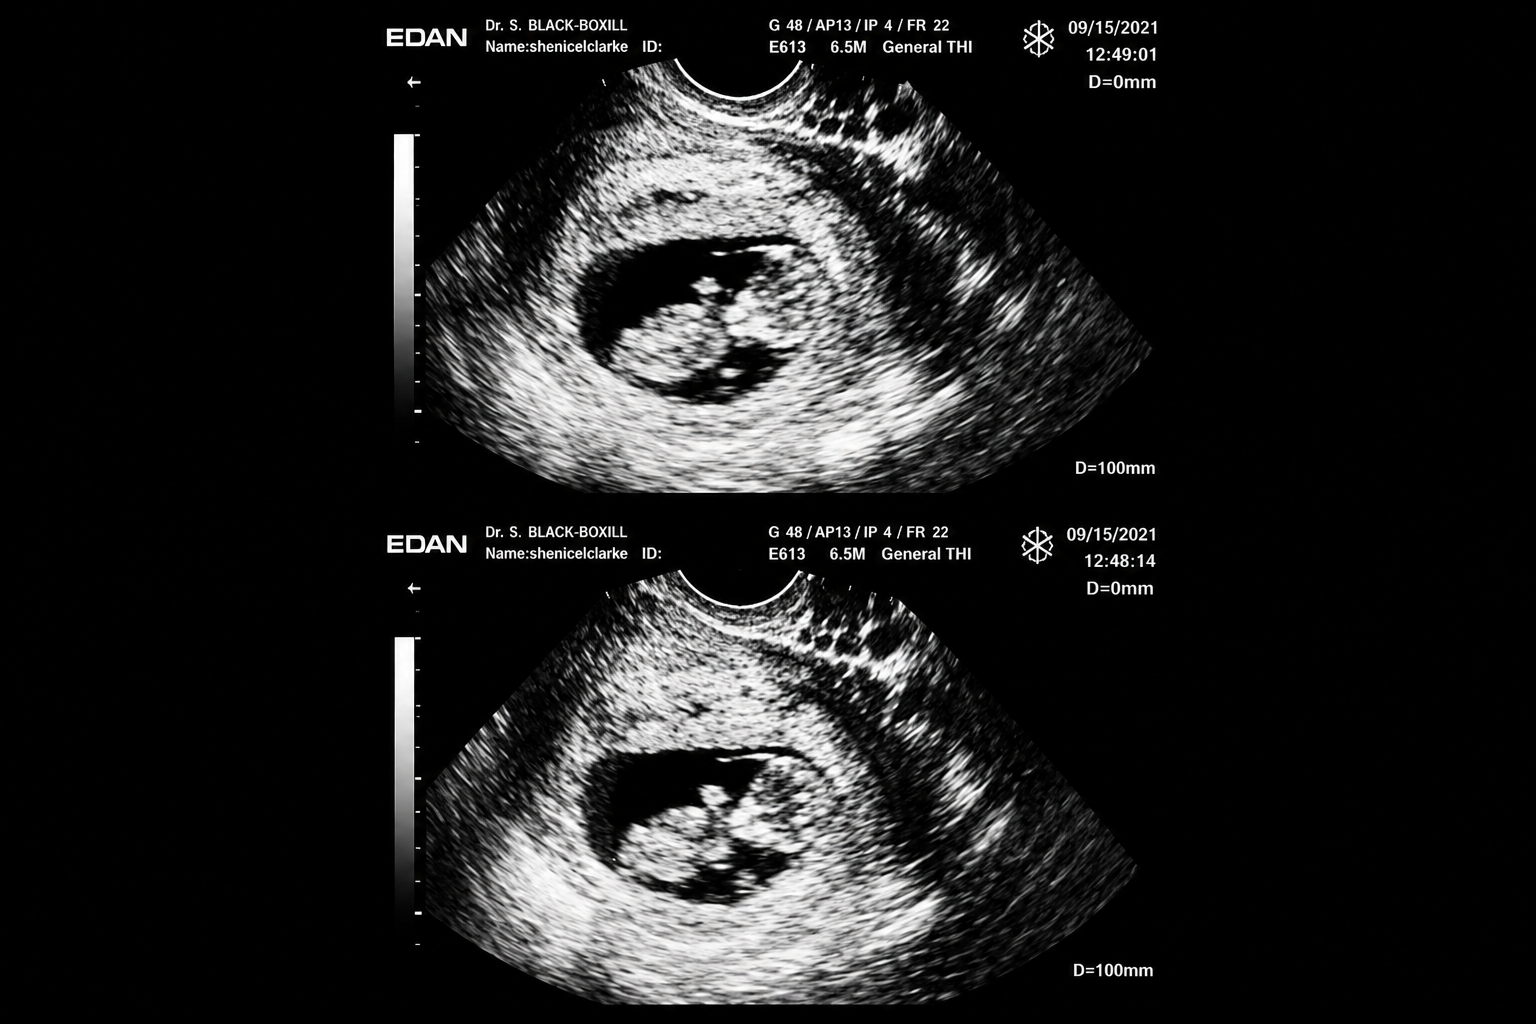
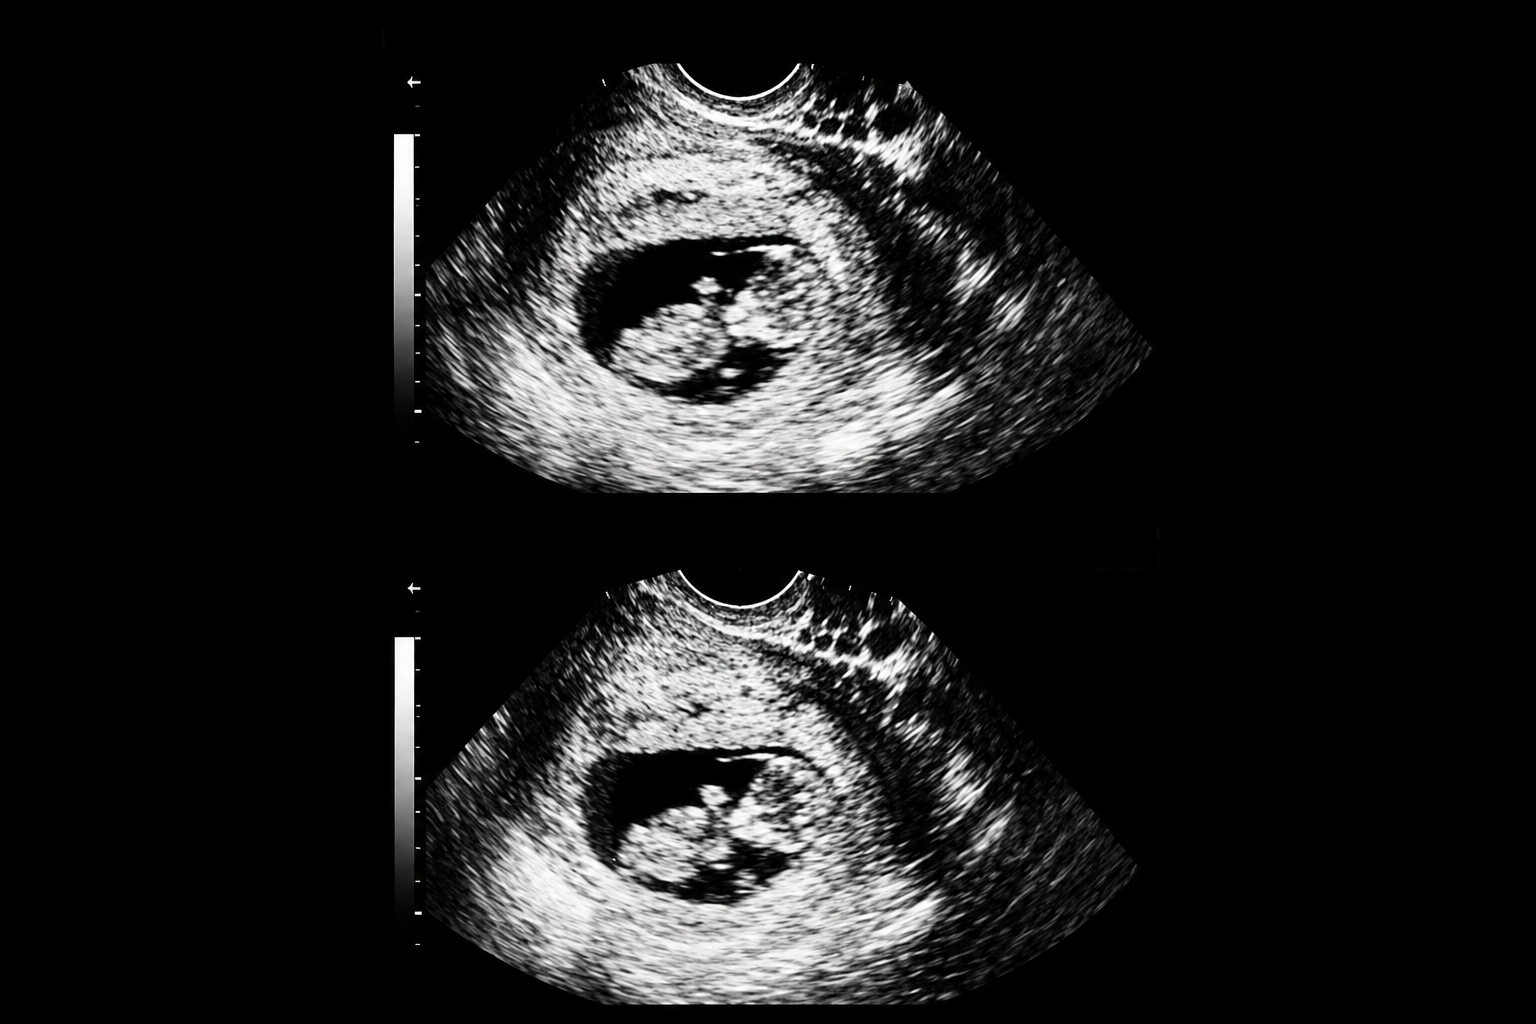
updates

diff --git a/src/data/wedding.ts b/src/data/wedding.ts
@@ -169,10 +169,10 @@ export const wedding = {
     intro:
       "Here are a few items we would love for our home. Claim an item so we know it’s covered, or if you prefer, a monetary gift is just as welcome.",
     noteHeading: "A little note",
-    note: "We’ve carefully chosen each item to match our home and personal style, so we kindly ask that gifts purchased be the exact items listed. Thank you for helping us make our house a home! ❤",
+    note: "We’ve carefully chosen each item to match our home and personal style, so we kindly ask that gifts purchased be the exact items, colour and amount listed. Thank you for helping us turn our house into a home filled with love, warmth, and beautiful memories!",
     donation: {
-      heading: "Prefer to give money?",
-      note: "A transfer to the account below is just as welcome.",
+      heading: "A Gift From the Heart",
+      note: "Should you wish to give a monetary gift, our banking details are provided below.",
       alternateBankNote:
         "If you use a different bank, or you are sending USD, message us and we’ll share the account information.",
       details: [
@@ -348,11 +348,6 @@ export const wedding = {
       members: [{ name: "Brandon Thompson" }, { name: "Serigo Prentice" }],
     },
     {
-      id: "principal-sponsors",
-      title: "Sponsors",
-      members: [{ name: "Rebekah Clarke" }],
-    },
-    {
       id: "flower-children",
       title: "Flower Girls",
       members: [
@@ -360,14 +355,19 @@ export const wedding = {
         { name: "Samiyah Clarke", role: "Flower Girl" },
       ],
     },
+    {
+      id: "principal-sponsors",
+      title: "Sponsors",
+      members: [{ name: "Rebekah Clarke" }],
+    },
   ] as PartyGroup[],
 
   story: [
     {
       id: "met",
       title: "How We Met",
-      handwrittenLabel: "chapter one",
-      body: "It started on Facebook, with messages that turned into conversations, then into something we both wanted to keep going. We met in person at Shenice’s school on one of her sports days, and that was where friendship settled into something more. From there, we grew into a relationship that felt natural, steady, and ours.",
+      handwrittenLabel: "The First Message",
+      body: "Our story began with a simple message on Facebook, one that sparked conversations neither of us wanted to end. What started as casual chats slowly grew into a beautiful friendship. We eventually met in person at one of Shenice’s school sports days, not knowing that this little moment would become part of something so special. As time went on, our friendship blossomed into something more, and somewhere along the way, we found love in each other. What began with a simple conversation became the start of our forever.",
       image: "/images/how_we_met.png",
       imageAlt: "Phones on a bench at a sports day, where Shenice and Quinton first met",
       imageSide: "left",
@@ -375,8 +375,8 @@ export const wedding = {
     {
       id: "trip",
       title: "Our First Trip",
-      handwrittenLabel: "passport stamps",
-      body: "Tobago was our first trip together, with sunny days, shared laughs, and a few hard moments along the way. Looking back, we hold both the good and the bad with open hands. We wouldn’t trade it. No regrets, only the beginning of learning how to travel through life side by side.",
+      handwrittenLabel: "The First Flight",
+      body: "Tobago will always hold a special place in our hearts. It was our first trip as a couple and our very first adventure away together. From sunny days and endless laughter to the little moments that brought us closer, every experience became part of our story. It was where we began making memories beyond the familiar, discovering new things about each other, and learning what it meant to experience life side by side. Our first getaway, but certainly not our last.",
       image: "/images/IMG_5611.jpg",
       imageAlt: "Shadows of Shenice and Quinton on the sand during their trip to Tobago",
       imageSide: "right",
@@ -384,8 +384,8 @@ export const wedding = {
     {
       id: "jupiter",
       title: "Jupiter",
-      handwrittenLabel: "our daughter",
-      body: "Jupiter is our daughter. She belongs in this story beside the two of us, the reason home feels full, and the reason this wedding is a family celebration, not only a couple’s.",
+      handwrittenLabel: "Our First Child",
+      body: "Our love story wouldn't be complete without our beautiful daughter, Jupiter. She has brought a whole new meaning to love, filling our home with laughter, warmth, and countless precious moments. Through her, we've discovered a love greater than we ever imagined and a bond that continues to grow stronger every day. As we prepare to say “I do,” we're not just celebrating our love for each other, but the beautiful little family we've created and the lifetime of memories still waiting to be made.",
       image: "/images/ultrasound.png",
       imageAlt: "Ultrasound of Jupiter before she was born",
       imageSide: "left",
@@ -401,9 +401,9 @@ export const wedding = {
     },
     {
       id: "destination",
-      title: "Choosing the Destination",
-      handwrittenLabel: "why St Lucia",
-      body: "We chose St Lucia because we wanted more than a ceremony. We wanted a getaway wedding where everyone we love could relax, celebrate, and make memories together. Beautiful scenery, warm air, and room to unwind: St Lucia felt like the right place to gather and begin this next chapter.",
+      title: "Our Forever Begins",
+      handwrittenLabel: "The Next Chapter",
+      body: "From a simple conversation on Facebook to a love that grew into a beautiful family, every chapter has brought us closer to this moment. We've shared laughter, adventures, milestones, and countless memories along the way, with our little Jupiter making our journey even more special. Now, as we prepare to say “I do,” we're looking forward to everything life has waiting for us. Our story is still being written, and we can't wait to begin this next chapter as husband and wife, surrounded by the people we love most.",
       image: "/images/Triangle-altar.jpg",
       imageAlt: "Beach ceremony with a triangular wooden altar facing the sea",
       imageSide: "left",
@@ -418,8 +418,8 @@ export const wedding = {
     },
     {
       id: "plus-one",
-      title: "Plus-ones",
-      body: "Your invitation includes a set number of adults and children. If a plus-one is included, that guest is at no charge. If a plus-one is not included, you may still add one if you are willing to cover the guest fee: about US$128 for an adult and about US$50 for a child ages 4–12 (resort service charge, VAT, and tax included). Price is subject to change. Any guest payment is due by January 31, 2027. If payment is not received by that date, their spot will be canceled.",
+      title: "Plus Ones",
+      body: "Your invitation includes a set number of adults and children. If a plus-one is included, that guest is at no charge. If a plus-one is not included, you may still add one if you are willing to cover the guest fee: about US$128 for an adult and about US$50 for a child ages 4–12 (resort service charge and VAT included). Price is subject to change. Any guest payment is due by January 31, 2027. If payment is not received by that date, their spot will be canceled.",
     },
     {
       id: "dress-code",
@@ -436,36 +436,26 @@ export const wedding = {
     {
       id: "arrival-time",
       title: "Ceremony Arrival Time",
-      body: "Please arrive by 3:30 PM. Be seated by 3:45 PM. The ceremony begins promptly at 4:00 PM.",
+      body: "Please arrive by 3:30 PM and be seated by 3:45 PM. The ceremony begins promptly at 4:00 PM.",
     },
     {
       id: "photos",
       title: "Photos",
-      body: "Photos are welcome during the ceremony. You can also share your pictures in our Memories gallery.",
+      body: "Photos of our special day are welcome. You can share your pictures in our Memories gallery.",
       href: "/invite/memories",
       linkLabel: "Share photos",
     },
     {
       id: "gifts",
       title: "Gifts",
-      body: "Here are a few items we would love for our home. Claim an item so we know it’s covered, or if you prefer, a monetary gift is just as welcome.",
+      body: "Here are a few items we would love for our home. Claim an item so we know it’s covered.",
       href: "/invite/registry",
       linkLabel: "Gift here",
     },
     {
-      id: "passport",
-      title: "Travel Docs",
-      body: "Please ensure your passport, and any other travel documents, are valid for at least six months beyond your travel dates.",
-    },
-    {
-      id: "contact",
-      title: "Contact Person",
-      body: "For wedding questions, email Sarai Cairo, Reservations & Wedding Wizard, at weddings@cbayna.com. Please mention Shenice & Quinton’s wedding (May 12, 2027) so she knows which celebration you’re writing about.",
-    },
-    {
       id: "nursing-station",
       title: "Nursing Station",
-      body: "If you are staying at Coconut Bay and a medical emergency happens, the resort has a nursing station on site.",
+      body: "If you are staying at Coconut Bay Resort it has a nursing station on site for medical emergencies.",
     },
   ] as Reminder[],
 
@@ -617,11 +607,6 @@ export const wedding = {
     driveBackupMessage:
       "Having trouble uploading here? Open our Google Drive folder and add your photos there instead.",
     driveBackupLinkLabel: "Upload on Google Drive",
-  },
-
-  images: {
-    coupleCover: "/images/couple-cover.jpg",
-    coupleCoverAlt: "Portrait placeholder for Shenice and Quinton",
   },
 } as const;
 

diff --git a/src/components/DecorativeMarks.tsx b/src/components/DecorativeMarks.tsx
@@ -76,29 +76,6 @@ export function AirplaneRoute({ className }: { className?: string }) {
   );
 }
 
-export function PostageStamp({
-  label = "St Lucia",
-  className,
-}: {
-  label?: string;
-  className?: string;
-}) {
-  return (
-    <div
-      className={cx(
-        "relative inline-flex h-16 w-14 flex-col items-center justify-center border-2 border-dashed border-lilac-deep/50 bg-paper/80 text-center text-[0.55rem] uppercase tracking-[0.14em] text-lilac-deep",
-        className,
-      )}
-      aria-hidden
-    >
-      <span className="stamp !transform-none !border-0 !p-0 opacity-90">{label}</span>
-      <span className="mt-1 handwritten text-lg normal-case tracking-normal text-sage-deep">
-        ♡
-      </span>
-    </div>
-  );
-}
-
 export function TornPaperEdge({ className }: { className?: string }) {
   return (
     <svg

diff --git a/src/components/LoveStory.tsx b/src/components/LoveStory.tsx
@@ -1,5 +1,5 @@
 import Image from "next/image";
-import { AirplaneRoute, PostageStamp } from "@/components/DecorativeMarks";
+import { AirplaneRoute } from "@/components/DecorativeMarks";
 import { DetailPageShell } from "@/components/DetailPageShell";
 import { ScrollReveal } from "@/components/ScrollReveal";
 import { wedding } from "@/data/wedding";
@@ -41,9 +41,6 @@ export function LoveStory() {
                       {chapter.handwrittenLabel}
                     </p>
                   </div>
-                  {index === 0 ? (
-                    <PostageStamp className="absolute -right-2 -top-2" label="Story" />
-                  ) : null}
                 </div>
 
                 <div className={cx("order-1", imageFirst ? "md:order-2" : "md:order-1")}>

diff --git a/src/components/Dashboard.tsx b/src/components/Dashboard.tsx
@@ -106,7 +106,7 @@ export function Dashboard({ shortened = false, fromOpening = false }: DashboardP
               <motion.div variants={assemble({ y: 64, rotate: -12 }, { ...opts, index: 4 })}>
                 <PolaroidCard
                   href="/invite/story"
-                  src="/images/Romantic_Sunset_Beach_Couple_Portrait.png"
+                  src="/images/love_story.jpeg"
                   alt="Shenice and Quinton together at sunset on the beach"
                   caption={wedding.dashboard.storyCaption}
                   rotate={-3.5}

diff --git a/src/components/FlightBoardingPass.tsx b/src/components/FlightBoardingPass.tsx
@@ -53,7 +53,7 @@ export function FlightBoardingPass({ className }: FlightBoardingPassProps) {
             </div>
             <div>
               <dt className="uppercase tracking-[0.12em] text-taupe">Book by</dt>
-              <dd className="font-bold">{wedding.hotel.bookingDeadlineDisplay}</dd>
+              <dd className="font-medium">{wedding.hotel.bookingDeadlineDisplay}</dd>
             </div>
             <div className="col-span-2">
               <dt className="uppercase tracking-[0.12em] text-taupe">Country</dt>
